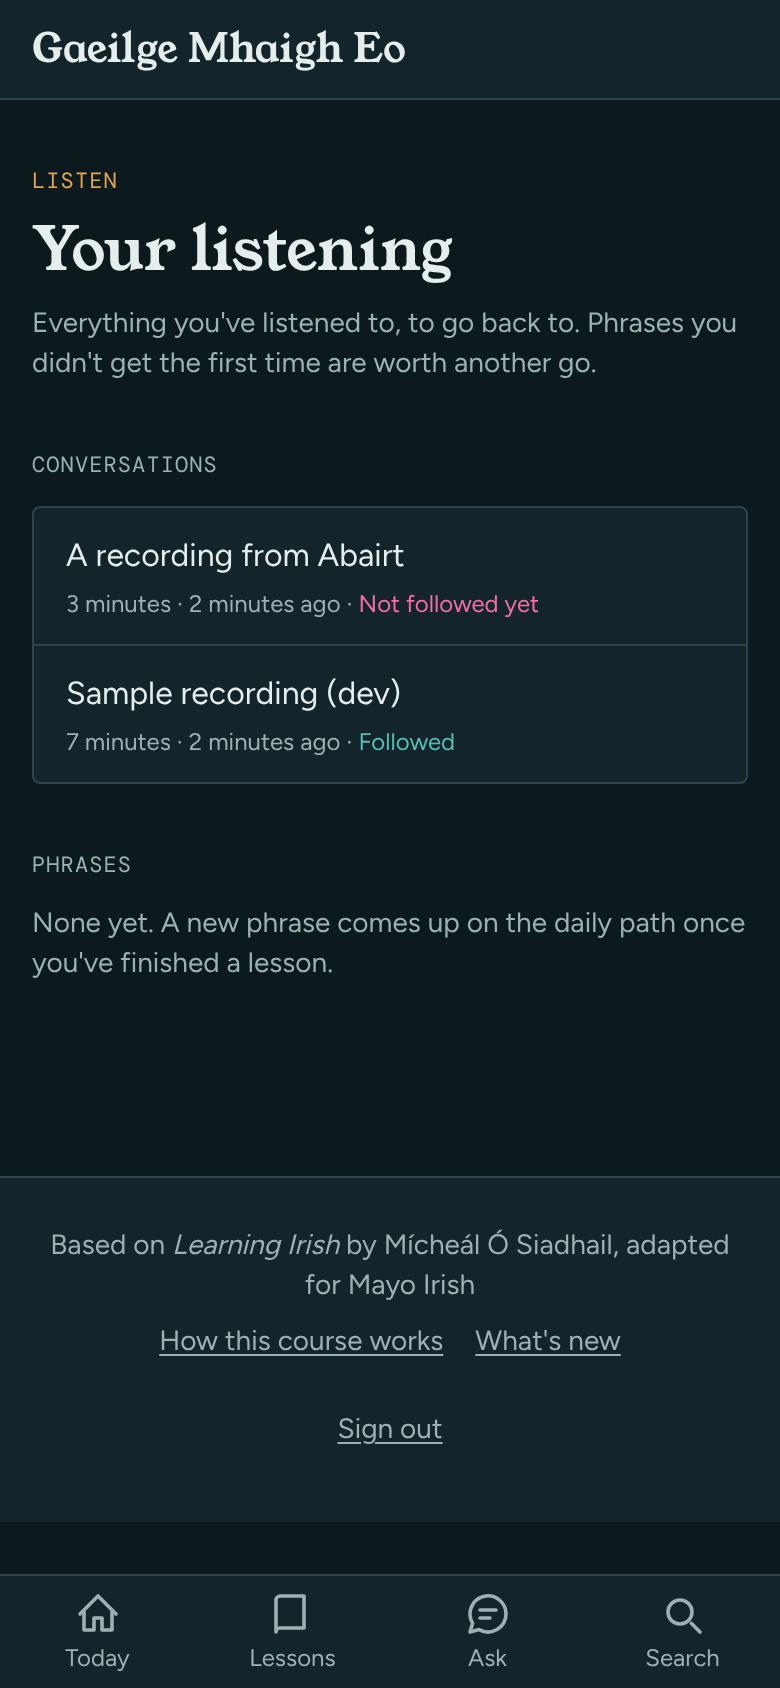
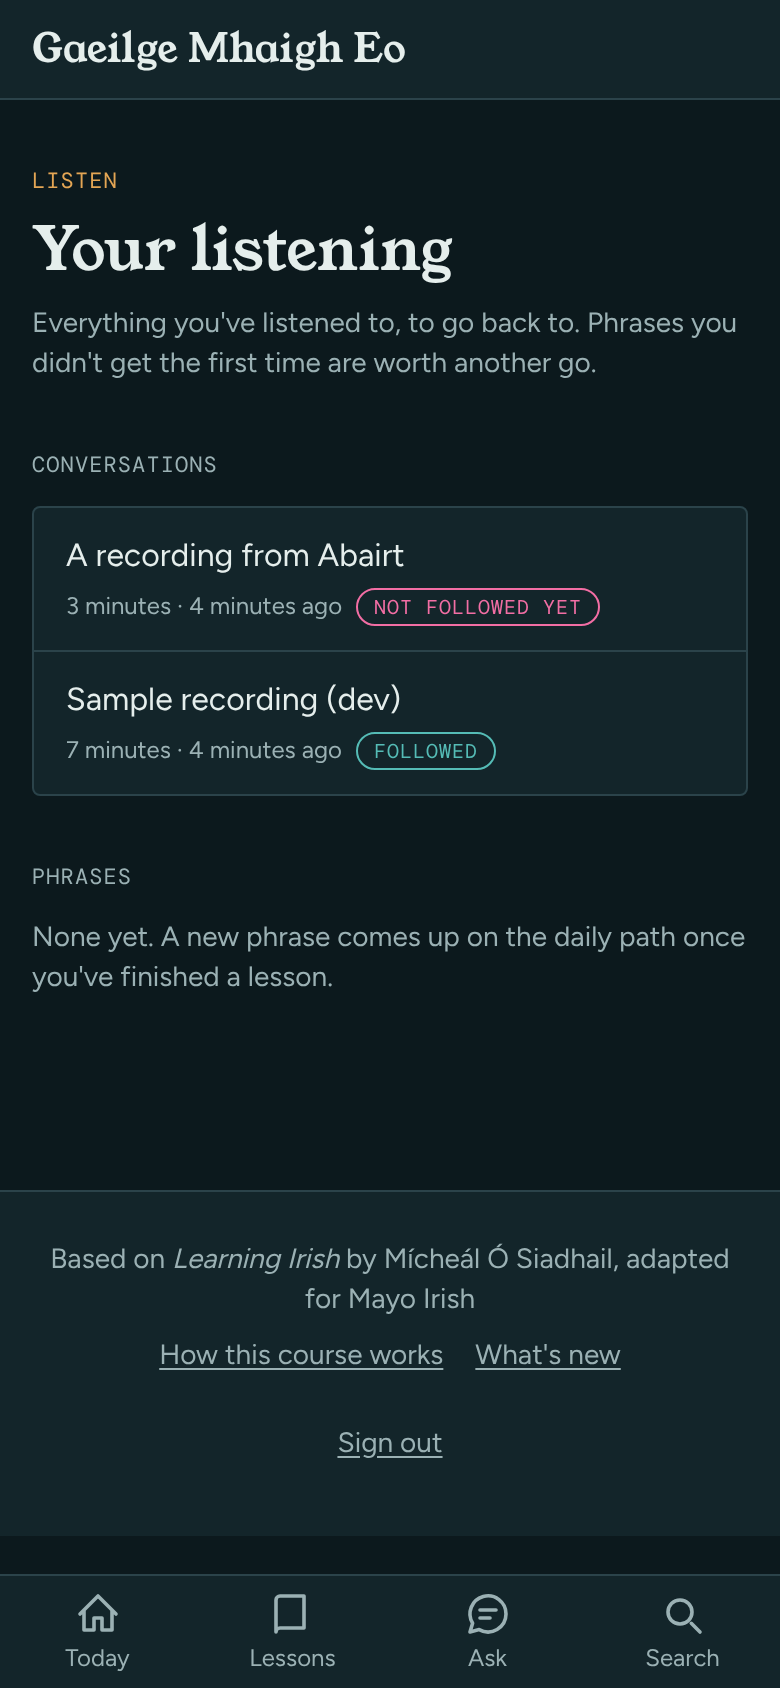
Followed: only answer once listening is recorded; chips on Your listening; more tests
Claude-Session: https://claude.ai/code/session_017wWQS8ofL9c5V3nUvKMGHA

diff --git a/test/controllers/recordings_test.rb b/test/controllers/recordings_test.rb
@@ -191,12 +191,35 @@ class RecordingsTest < ActionDispatch::IntegrationTest
     assert_equal I18n.t("recording_follows.update.not_yet"), flash[:notice]
   end
 
-  test "saying so before any listening time is reported still keeps the answer" do
+  test "saying so before any listening is kept asks the learner to listen first, and records nothing" do
     patch recording_follow_path(15), params: { followed: "true" }
 
-    time = users(:two).listening_times.sole
-    assert time.followed
-    assert_equal 0, time.seconds
+    assert_redirected_to recording_path(15, anchor: "followed")
+    assert_equal I18n.t("recording_follows.update.listen_first"), flash[:alert]
+    assert_empty users(:two).listening_times
+    assert_empty users(:two).listening_days
+  end
+
+  test "saying so leaves the minutes listened alone" do
+    users(:two).listening_times.create!(abairt_recording_id: 15, seconds: 90)
+
+    assert_no_difference -> { ListeningDay.count } do
+      patch recording_follow_path(15), params: { followed: true }
+    end
+    assert_equal 90, users(:two).listening_times.sole.seconds
+  end
+
+  test "an answer needs the followed param, and a signed-in learner" do
+    users(:two).listening_times.create!(abairt_recording_id: 15, seconds: 90)
+
+    patch recording_follow_path(15)
+    assert_response :bad_request
+    assert_nil users(:two).listening_times.sole.followed
+
+    sign_out
+    patch recording_follow_path(15), params: { followed: true }
+    assert_redirected_to new_session_path
+    assert_nil users(:two).listening_times.sole.followed
   end
 
   test "only offered recordings can be marked as followed" do
@@ -224,6 +247,12 @@ class RecordingsTest < ActionDispatch::IntegrationTest
 
     assert_select "[data-testid=followed-answer]", text: I18n.t("recordings.show.you_followed")
     assert_select "section#followed button[aria-pressed=true]", text: I18n.t("recordings.show.i_followed")
+
+    users(:two).listening_times.sole.update!(followed: false)
+    with_abairt_token { get recording_path(15) }
+
+    assert_select "[data-testid=followed-answer]", text: I18n.t("recordings.show.you_not_yet")
+    assert_select "section#followed button[aria-pressed=true]", text: I18n.t("recordings.show.not_yet")
   end
 
   test "Your listening shows which conversations the learner followed" do
@@ -236,6 +265,5 @@ class RecordingsTest < ActionDispatch::IntegrationTest
     assert_select "#conversations-heading + ul li", count: 3
     assert_select "#conversations-heading + ul span", text: I18n.t("listens.index.followed"), count: 1
     assert_select "#conversations-heading + ul span", text: I18n.t("listens.index.not_followed_yet"), count: 1
-    assert_select "#conversations-heading + ul", text: /No listening yet/
   end
 end

diff --git a/app/controllers/recording_follows_controller.rb b/app/controllers/recording_follows_controller.rb
@@ -1,13 +1,16 @@
 # A learner saying whether they followed a whole recording: their own word, not
-# a test, kept with their listening time for it.
+# a test, kept with their listening time for it. Only once they have listened:
+# a listening time is what the page reports while the recording plays.
 class RecordingFollowsController < ApplicationController
   def update
     raise ActiveRecord::RecordNotFound unless ListeningClip.recording_offered?(params[:recording_id], to: current_user)
 
     followed = ActiveModel::Type::Boolean.new.cast(params.expect(:followed))
-    # update_columns leaves updated_at alone: it stands for when they last listened (Your listening, usage).
-    current_user.listening_times.find_or_create_by!(abairt_recording_id: params[:recording_id]).update_columns(followed: followed)
+    time = current_user.listening_times.find_by(abairt_recording_id: params[:recording_id].to_i)
+    return redirect_to recording_path(params[:recording_id], anchor: "followed"), alert: t(".listen_first") if time.nil?
 
+    # update_columns leaves updated_at alone: it stands for when they last listened (Your listening, usage, Today).
+    time.update_columns(followed: followed)
     notice = followed ? t(".followed") : t(".not_yet")
     redirect_to recording_path(params[:recording_id], anchor: "followed"), notice: notice
   end
